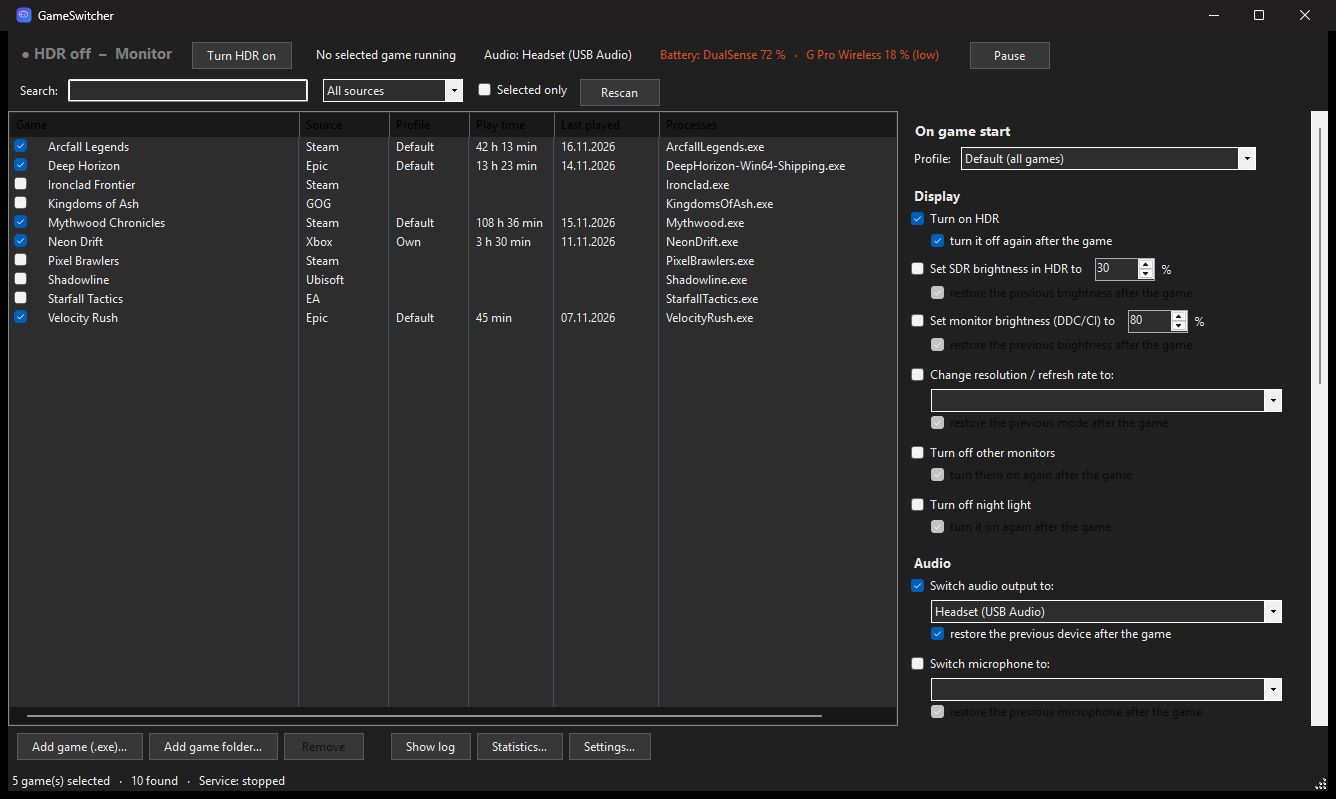
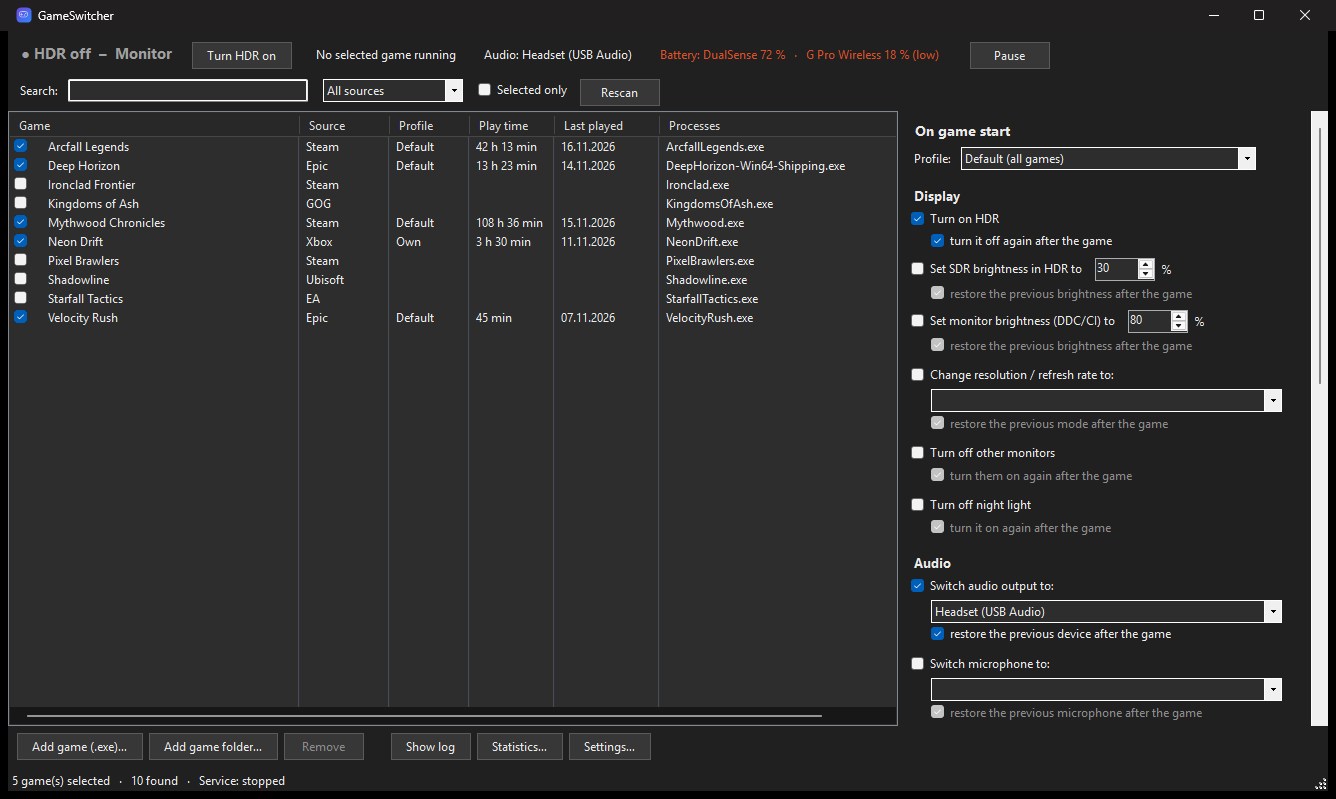
Dark mode: readable disabled options, list headers and hints
Windows draws disabled checkbox and button texts and the dark list header in a gray that is hardly readable on dark backgrounds; these are now drawn in lighter grays.

diff --git a/src/Gui/Theme.cs b/src/Gui/Theme.cs
@@ -63,14 +63,17 @@ namespace GameSwitcher.Gui
                             break;
                         default:
                             c.BackColor = back;
-                            if (c != keepForeColor && !(c.Tag is string tag && tag == "keepColor")) c.ForeColor = text;   // e.g. gray hints
+                            if (c.Tag is string hint && hint == "hint") c.ForeColor = dark ? DarkGray : Color.FromArgb(100, 100, 100);
+                            else if (c != keepForeColor && !(c.Tag is string tag && tag == "keepColor")) c.ForeColor = text;
                             break;
                     }
+                    if ((c is CheckBox || c is Button) && Hooked.Add(c)) c.Paint += PaintDisabledText;
                     if (c is ListView lv)
                     {
                         SetDarkControl(lv.Handle, dark, "DarkMode_Explorer", "Explorer");
                         IntPtr header = SendMessage(lv.Handle, 0x101F, IntPtr.Zero, IntPtr.Zero);   // LVM_GETHEADER
                         SetDarkControl(header, dark, "DarkMode_ItemsView", "ItemsView");
+                        if (Hooked.Add(lv)) DrawHeaderItself(lv);
                     }
                     if (c.Controls.Count > 0) ApplyTo(c);
                 }
@@ -87,6 +90,60 @@ namespace GameSwitcher.Gui
             int v = dark ? 1 : 0;
             DwmSetWindowAttribute(window.Handle, 20, ref v, 4);   // dark title bar
             FitCheckBoxes(window);
+        }
+
+        // Light gray for secondary texts in the dark design (hints, "off", disabled options)
+        public static readonly Color DarkGray = Color.FromArgb(160, 160, 160);
+        static readonly HashSet<Control> Hooked = new HashSet<Control>();
+
+        static bool IsDarkBack(Color c) => c.GetBrightness() < 0.4f;
+
+        // Windows draws the text of disabled checkboxes and buttons in a fixed dark gray that is hardly
+        // readable on a dark background: in the dark design it is drawn again in a lighter gray
+        static void PaintDisabledText(object sender, PaintEventArgs e)
+        {
+            var c = (Control)sender;
+            if (c.Enabled || !IsDarkBack(c.BackColor) || string.IsNullOrEmpty(c.Text)) return;
+            var color = Color.FromArgb(140, 140, 140);
+            if (c is CheckBox cb)
+            {
+                int glyph = CheckBoxRenderer.GetGlyphSize(e.Graphics, System.Windows.Forms.VisualStyles.CheckBoxState.UncheckedDisabled).Width;
+                var area = new Rectangle(glyph + 1, 0, cb.Width - glyph - 1, cb.Height);
+                using (var b = new SolidBrush(cb.BackColor)) e.Graphics.FillRectangle(b, area);
+                var flags = TextFormatFlags.Left | TextFormatFlags.WordBreak | TextFormatFlags.NoPrefix;
+                int left = glyph + cb.LogicalToDeviceUnits(3);
+                Size size = TextRenderer.MeasureText(e.Graphics, cb.Text, cb.Font, new Size(cb.Width - left, 0), flags);
+                var textArea = new Rectangle(left, Math.Max(0, (cb.Height - size.Height) / 2), cb.Width - left, size.Height);
+                TextRenderer.DrawText(e.Graphics, cb.Text, cb.Font, textArea, color, flags);
+            }
+            else
+            {
+                var area = Rectangle.Inflate(c.ClientRectangle, -2, -2);
+                using (var b = new SolidBrush(c.BackColor)) e.Graphics.FillRectangle(b, area);
+                TextRenderer.DrawText(e.Graphics, c.Text, c.Font, area, color, TextFormatFlags.HorizontalCenter | TextFormatFlags.VerticalCenter | TextFormatFlags.NoPrefix);
+            }
+        }
+
+        // The dark list header theme draws its texts too dark: the header is drawn here, the rows by Windows
+        static void DrawHeaderItself(ListView lv)
+        {
+            lv.OwnerDraw = true;
+            lv.DrawItem += (s, e) => e.DrawDefault = true;
+            lv.DrawSubItem += (s, e) => e.DrawDefault = true;
+            lv.DrawColumnHeader += (s, e) =>
+            {
+                if (!IsDarkBack(lv.BackColor)) { e.DrawDefault = true; return; }
+                using (var back = new SolidBrush(Color.FromArgb(40, 40, 40))) e.Graphics.FillRectangle(back, e.Bounds);
+                using (var line = new Pen(Color.FromArgb(70, 70, 70)))
+                {
+                    e.Graphics.DrawLine(line, e.Bounds.Right - 1, e.Bounds.Top + 3, e.Bounds.Right - 1, e.Bounds.Bottom - 4);
+                    e.Graphics.DrawLine(line, e.Bounds.Left, e.Bounds.Bottom - 1, e.Bounds.Right, e.Bounds.Bottom - 1);
+                }
+                var flags = TextFormatFlags.VerticalCenter | TextFormatFlags.EndEllipsis | TextFormatFlags.NoPrefix |
+                            (e.Header.TextAlign == HorizontalAlignment.Right ? TextFormatFlags.Right : TextFormatFlags.Left);
+                var area = Rectangle.Inflate(e.Bounds, -lv.LogicalToDeviceUnits(6), 0);
+                TextRenderer.DrawText(e.Graphics, e.Header.Text, lv.Font, area, Color.FromArgb(220, 220, 220), flags);
+            };
         }
 
         // Checkboxes with a width limit (Tag) wrap long texts onto several lines instead of cutting them off

diff --git a/src/Gui/MainForm.cs b/src/Gui/MainForm.cs
@@ -170,7 +170,7 @@ namespace GameSwitcher.Gui
             lblAutoHdr = NewLabel(new Padding(3, 9, 3, 3));
             cmbAutoHdr = NewCombo(Px(170)); cmbAutoHdr.Margin = new Padding(3, 6, 3, 2);
             autoHdrRow.Controls.AddRange(new Control[] { lblAutoHdr, cmbAutoHdr });
-            lblGraphicsHint = NewLabel(new Padding(3, 2, 3, 2)); lblGraphicsHint.MaximumSize = new Size(innerWidth, 0); lblGraphicsHint.ForeColor = ColorOff; lblGraphicsHint.Tag = "keepColor";
+            lblGraphicsHint = NewLabel(new Padding(3, 2, 3, 2)); lblGraphicsHint.MaximumSize = new Size(innerWidth, 0); lblGraphicsHint.Tag = "hint";
 
             secPrograms = NewSection();
             chkClose = NewCheck(0, 2); lstClose = NewAppList();
@@ -387,6 +387,9 @@ namespace GameSwitcher.Gui
 
         public string ThemeSetting => settings.Theme;
 
+        // Gray for "off" and missing entries, lighter in the dark design
+        Color OffColor => Theme.IsDark(settings.Theme) ? Theme.DarkGray : ColorOff;
+
         public void ApplyTheme() => Theme.Apply(this, Theme.IsDark(settings.Theme), new[] { menu, addMenu, pauseMenu }, lblHdr);
 
         public void ChangeLanguage(string code)
@@ -407,6 +410,9 @@ namespace GameSwitcher.Gui
             Save();
             ApplyTheme();
             UpdateBatteryLabel();
+            UpdateHdr();
+            ShowGames();
+            list.Invalidate(true);
         }
 
         #endregion
@@ -450,13 +456,13 @@ namespace GameSwitcher.Gui
             if (demo)
             {
                 hdrDisplays = new List<HdrDisplay>();
-                lblHdr.Text = "● " + T("hdr.off") + "  –  Monitor"; lblHdr.ForeColor = ColorOff; btnToggleHdr.Text = T("btn.hdrOn");
+                lblHdr.Text = "● " + T("hdr.off") + "  –  Monitor"; lblHdr.ForeColor = OffColor; btnToggleHdr.Text = T("btn.hdrOn");
                 return;
             }
             try { hdrDisplays = DisplayConfig.GetDisplays().Where(d => d.HdrSupported).ToList(); } catch { hdrDisplays = new List<HdrDisplay>(); }
             if (hdrDisplays.Count == 0)
             {
-                lblHdr.Text = "● " + T("hdr.none"); lblHdr.ForeColor = ColorOff;
+                lblHdr.Text = "● " + T("hdr.none"); lblHdr.ForeColor = OffColor;
                 btnToggleHdr.Text = T("btn.hdrOn"); btnToggleHdr.Enabled = false;
                 return;
             }
@@ -465,7 +471,7 @@ namespace GameSwitcher.Gui
             string names = hdrDisplays.Count == 1 ? hdrDisplays[0].Name
                 : string.Join(", ", hdrDisplays.Select(d => d.Name + ": " + (d.HdrEnabled ? T("hdr.displayOn") : T("hdr.displayOff"))));
             lblHdr.Text = $"● {state}  –  {names}";
-            lblHdr.ForeColor = on > 0 ? ColorOn : ColorOff;
+            lblHdr.ForeColor = on > 0 ? ColorOn : OffColor;
             btnToggleHdr.Enabled = true;
             btnToggleHdr.Text = on > 0 ? T("btn.hdrOff") : T("btn.hdrOn");
         }
@@ -618,7 +624,7 @@ namespace GameSwitcher.Gui
                 item.SubItems.Add(ProfileText(game));
                 item.SubItems.Add(""); item.SubItems.Add("");
                 item.SubItems.Add(string.Join(", ", game.Exes));
-                if (game.Source == "Missing") item.ForeColor = ColorOff;
+                if (game.Source == "Missing") item.ForeColor = OffColor;
                 SetPlaytimeCells(item, playtime);
                 list.Items.Add(item);
                 if (game.Key == keep) item.Selected = true;

diff --git a/src/Gui/StatsDialog.cs b/src/Gui/StatsDialog.cs
@@ -25,7 +25,7 @@ namespace GameSwitcher.Gui
         readonly ComboBox cmbRange = new ComboBox { DropDownStyle = ComboBoxStyle.DropDownList };
         readonly Chart chart = new Chart { Dock = DockStyle.Fill };
         readonly ListView table = new ListView { Dock = DockStyle.Right, View = View.Details, FullRowSelect = true, HeaderStyle = ColumnHeaderStyle.Nonclickable };
-        readonly Label lblTotal = new Label { AutoSize = true }, lblHint = new Label { AutoSize = true, Tag = "keepColor", ForeColor = Color.Gray };
+        readonly Label lblTotal = new Label { AutoSize = true }, lblHint = new Label { AutoSize = true, Tag = "hint" };
 
         public StatsDialog(Form owner, Dictionary<string, Dictionary<string, object>> playtime, bool dark)
         {

diff --git a/src/Gui/SettingsDialog.cs b/src/Gui/SettingsDialog.cs
@@ -47,7 +47,7 @@ namespace GameSwitcher.Gui
 
         static CheckBox NewCheck(Padding margin) => new CheckBox { AutoSize = true, Margin = margin };
         static Label NewLabel(Padding margin) => new Label { AutoSize = true, Margin = margin };
-        static Label NewHint(Padding margin) => new Label { AutoSize = true, Margin = margin, ForeColor = Color.Gray, Tag = "keepColor" };
+        static Label NewHint(Padding margin) => new Label { AutoSize = true, Margin = margin, Tag = "hint" };
         static Label NewSection(Padding margin) => new Label { AutoSize = true, Margin = margin };
 
         Button NewButton(Padding margin) => new Button
